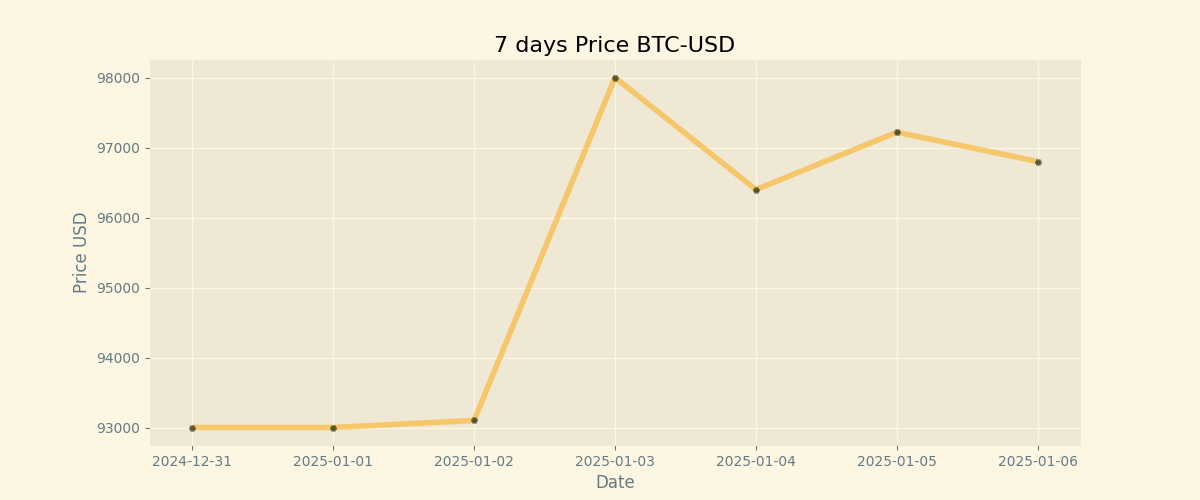
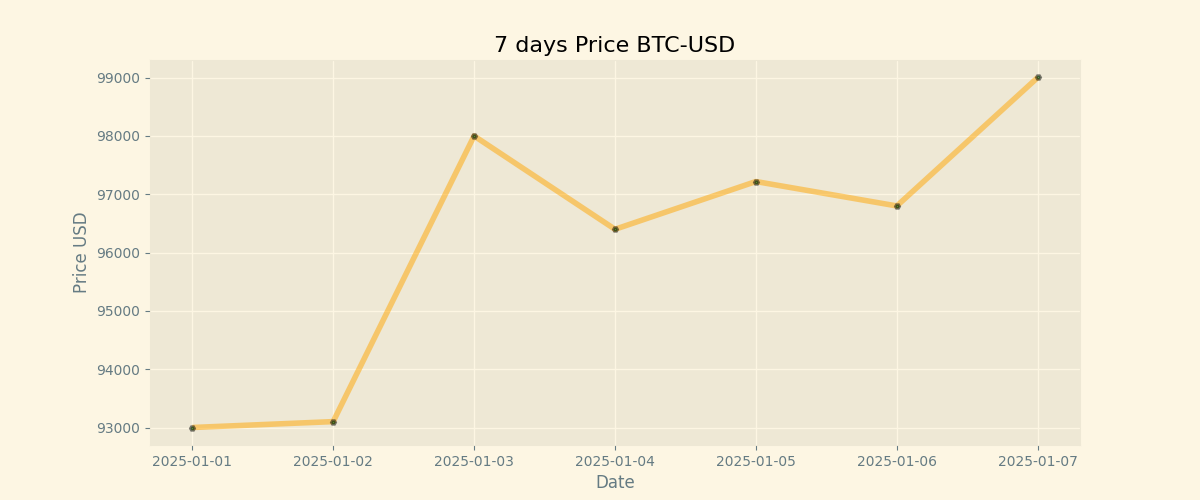
Duty Updates 2025-01-07

diff --git a/README.md b/README.md
@@ -9,8 +9,8 @@
 
 | Currency | Price           |
 | -------- | --------------- |
-| **BTC**  | **$ 96799.44** |
-| **ETH**  | **$ 3655.0** |
+| **BTC**  | **$ 99001.99** |
+| **ETH**  | **$ 3685.0** |
 
 ## BTC chart
 
